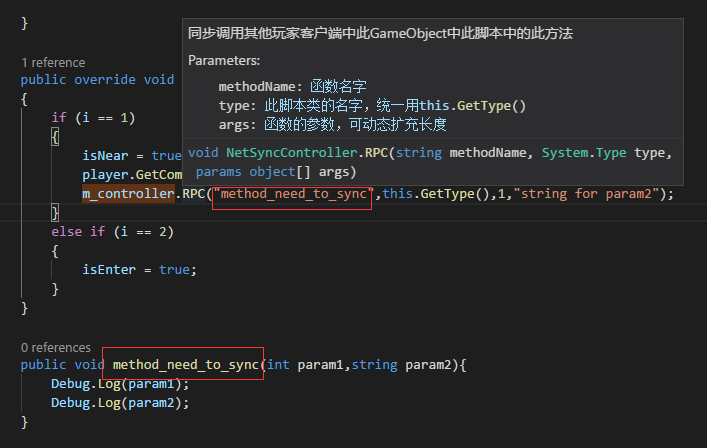
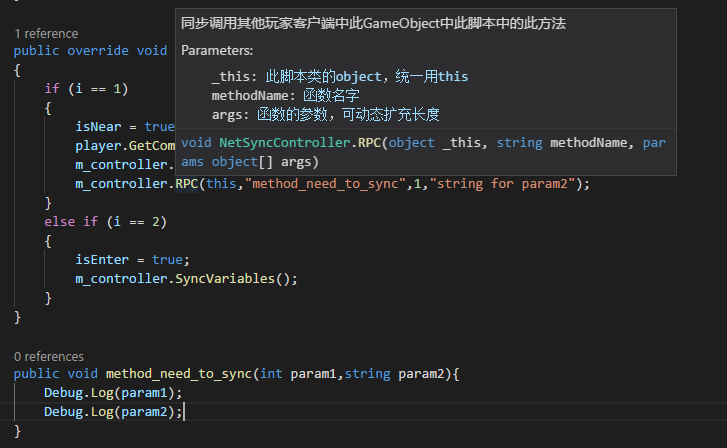
修改了RPC的函数参数和参数位置，使其更易理解
1：同时在README.md中增添了通用网络模块组件和接口使用的索引

diff --git a/tutorial/通用网络同步组件和接口使用.md b/tutorial/通用网络同步组件和接口使用.md
@@ -98,12 +98,12 @@ m_controller.SyncVariables();
 ### 调用RPC函数
 
 ```c#
-public void RPC(string methodName, Type type, params object[] args)
+public void RPC(object _this, string methodName, params object[] args)
 ```
 
 使用示例：在某玩家的场景状态切换完之后，调用method_need_to_sync函数，其他玩家就会调用此函数。
 
-![1529744428814](../images/tutorial/通用网络组件和接口使用-10.png)
+![1529754682579](../images/tutorial/通用网络组件和接口使用-10.png)
 
 
 

diff --git a/tutorial/README.MD b/tutorial/README.MD
@@ -3,4 +3,5 @@
 - [biped骨骼绑定](biped骨骼绑定教程.md)
 - [网络模块客户端框架](网络模块客户端框架.md)
 - [状态机系统教程](状态机系统.md)
+- [通用网络同步组件和接口使用](通用网络同步组件和接口使用.md)
 
